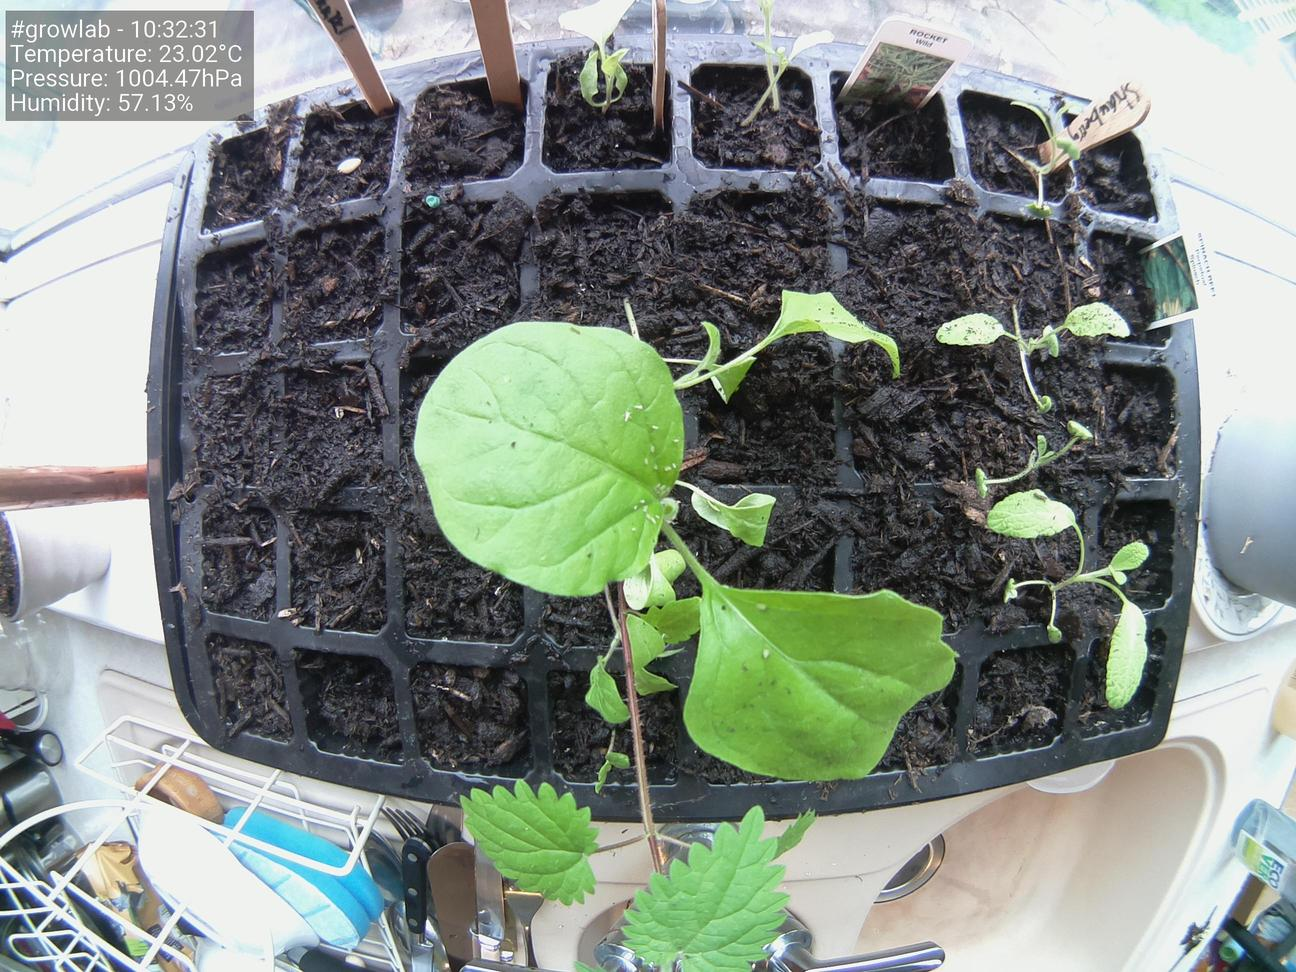
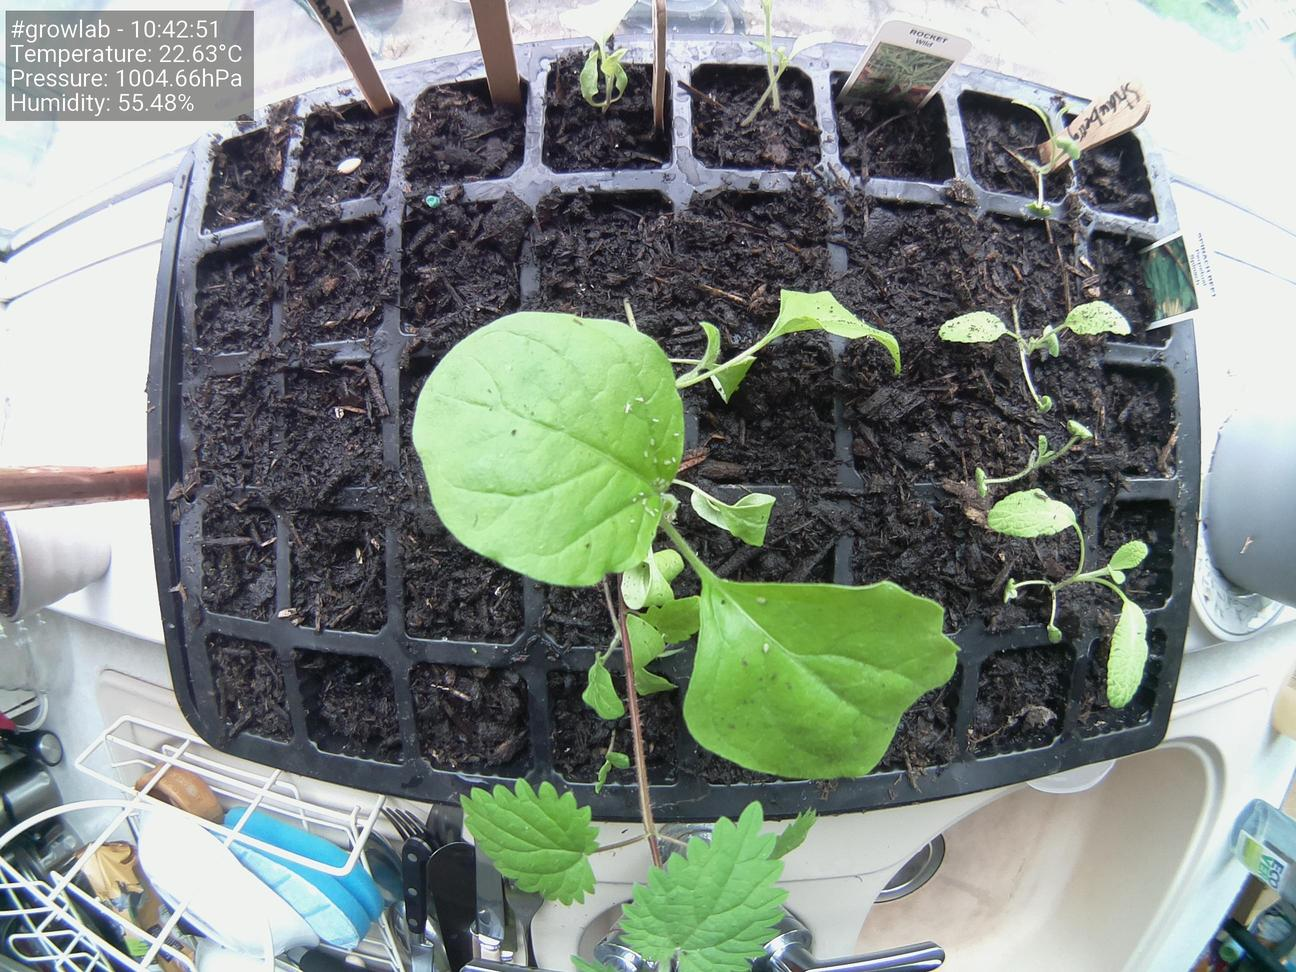
Update images at Mon 17 May 10:43:02 BST 2021

diff --git a/docs/index.html b/docs/index.html
@@ -38,19 +38,19 @@
                     <tbody>
                         <tr>
                             <td>Time</td>
-                            <td>10:32:31</td>
+                            <td>10:42:51</td>
                         </tr>
                         <tr>
                             <td>Temperature</td>
-                            <td>23.02°C</td>
+                            <td>22.63°C</td>
                         </tr>
                         <tr>
                             <td>Humidity</td>
-                            <td>57.13%</td>
+                            <td>55.48%</td>
                         </tr>
                         <tr>
                             <td>Pressure</td>
-                            <td>1004.47hPa</td>
+                            <td>1004.66hPa</td>
                         </tr>
                     </tbody>
                 </table>
@@ -58,7 +58,7 @@
 
                 <h5>Latest image</h5>
 		<div style="width: 85%;">
-	                <img class="figure-img img-fluid rounded" src="./preview.jpg?uid=1621243962.4886088">
+	                <img class="figure-img img-fluid rounded" src="./preview.jpg?uid=1621244582.2048607">
 		</div>
             </div>
         </div>
